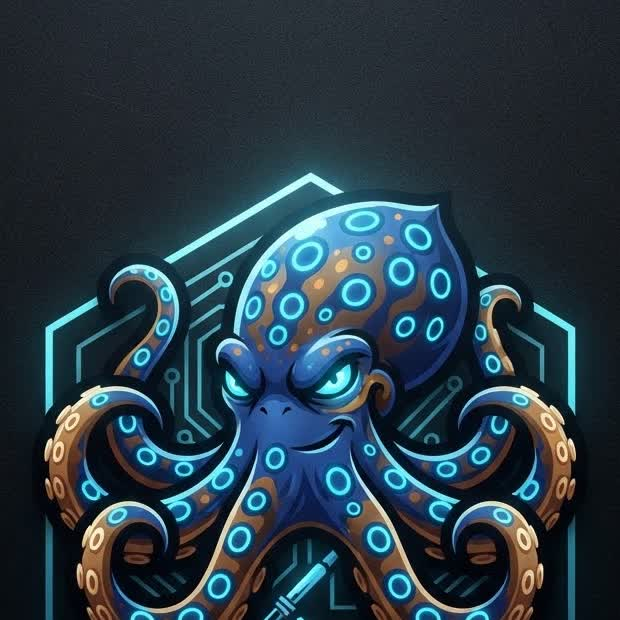
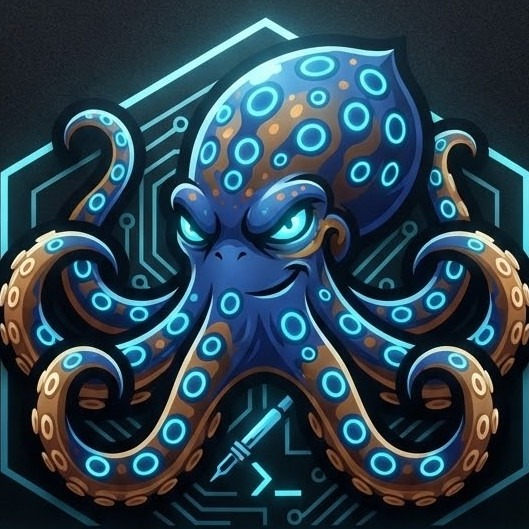
Update hero and header brand art from Josh’s submit
Replace brand-icon, square header mark (octopus crop), and favicon.

diff --git a/index.html b/index.html
@@ -55,8 +55,7 @@
         <img
           class="hero-brand"
           src="assets/brand-icon.jpg"
-          width="768"
-          height="1368"
+          width="641" height="749"
           alt="Evil0ctopus brand mark — stylized octopus with tagline CODE. CRAFT. CONQUER."
         >
       </div>
